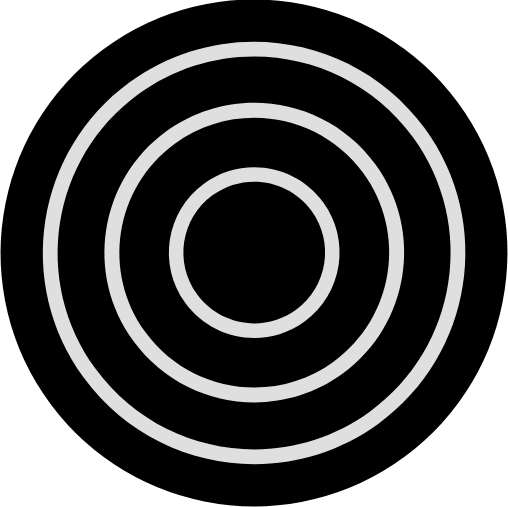
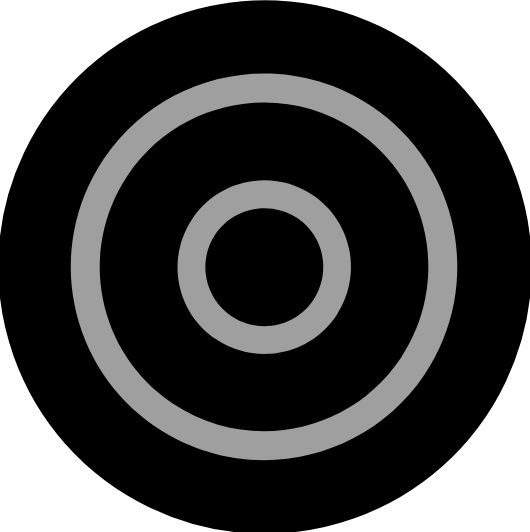
better images for game pieces

diff --git a/Carrom/src/GameBoard.java b/Carrom/src/GameBoard.java
@@ -89,6 +89,7 @@ public class GameBoard extends PApplet {
 		board = loadImage("data" + File.separator + "board.png");
 		black = loadImage("data" + File.separator + "black.png");
 		white = loadImage("data" + File.separator + "white.png");
+		red = loadImage("data" + File.separator + "red.png");
 	}
 
 	public void draw() {
@@ -102,16 +103,20 @@ public class GameBoard extends PApplet {
 			for(GenericGamePiece p : pieces) {
 				if(p.getValue() == 10)
 					p.draw(this, black);
-				else
+				else if(p.getValue() == 20)
 					p.draw(this, white);
+				else
+					p.draw(this, red);
 			}
 		}else if(turnPhase==1) {
 			striker.draw(this);
 			for(GenericGamePiece p : pieces) {
 				if(p.getValue() == 10)
 					p.draw(this, black);
-				else
+				else if(p.getValue() == 20)
 					p.draw(this, white);
+				else
+					p.draw(this, red);
 			}
 			double velX = striker.getX()-mouseX;
 			double velY = striker.getY()-mouseY;
@@ -187,8 +192,10 @@ public class GameBoard extends PApplet {
 				p.move(this.width/8+BORDER_WIDTH,this.height/8+BORDER_WIDTH,7*this.width/8-BORDER_WIDTH,7*this.height/8-BORDER_WIDTH);
 				if(p.getValue() == 10)
 					p.draw(this, black);
-				else
+				else if(p.getValue() == 20)
 					p.draw(this, white);
+				else
+					p.draw(this, red);
 			}
 			
 			boolean stop = true;
